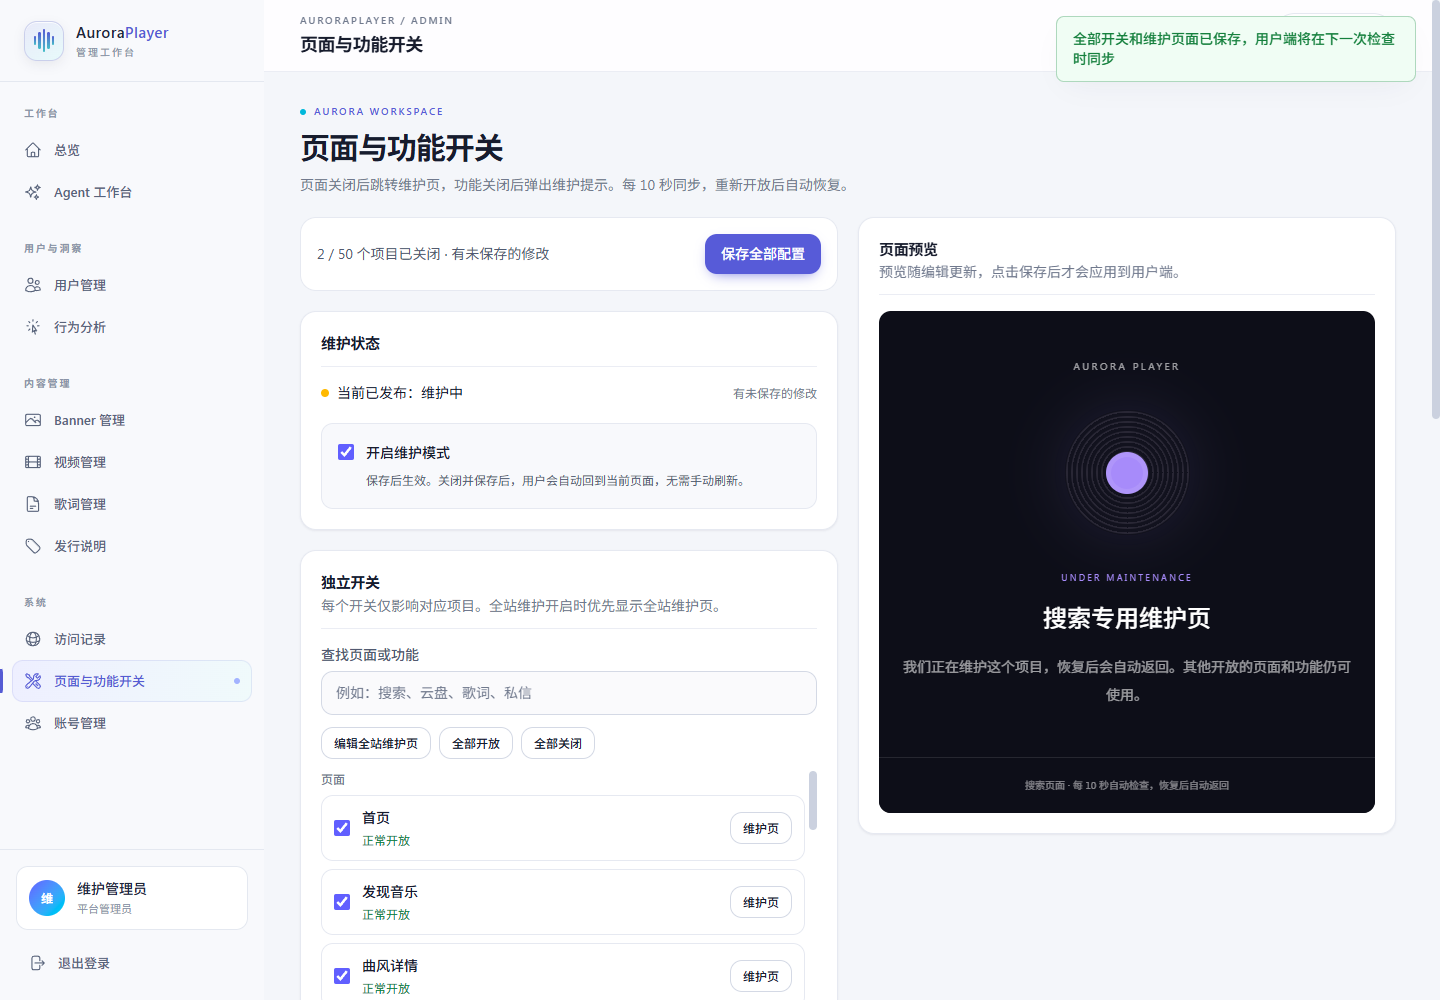
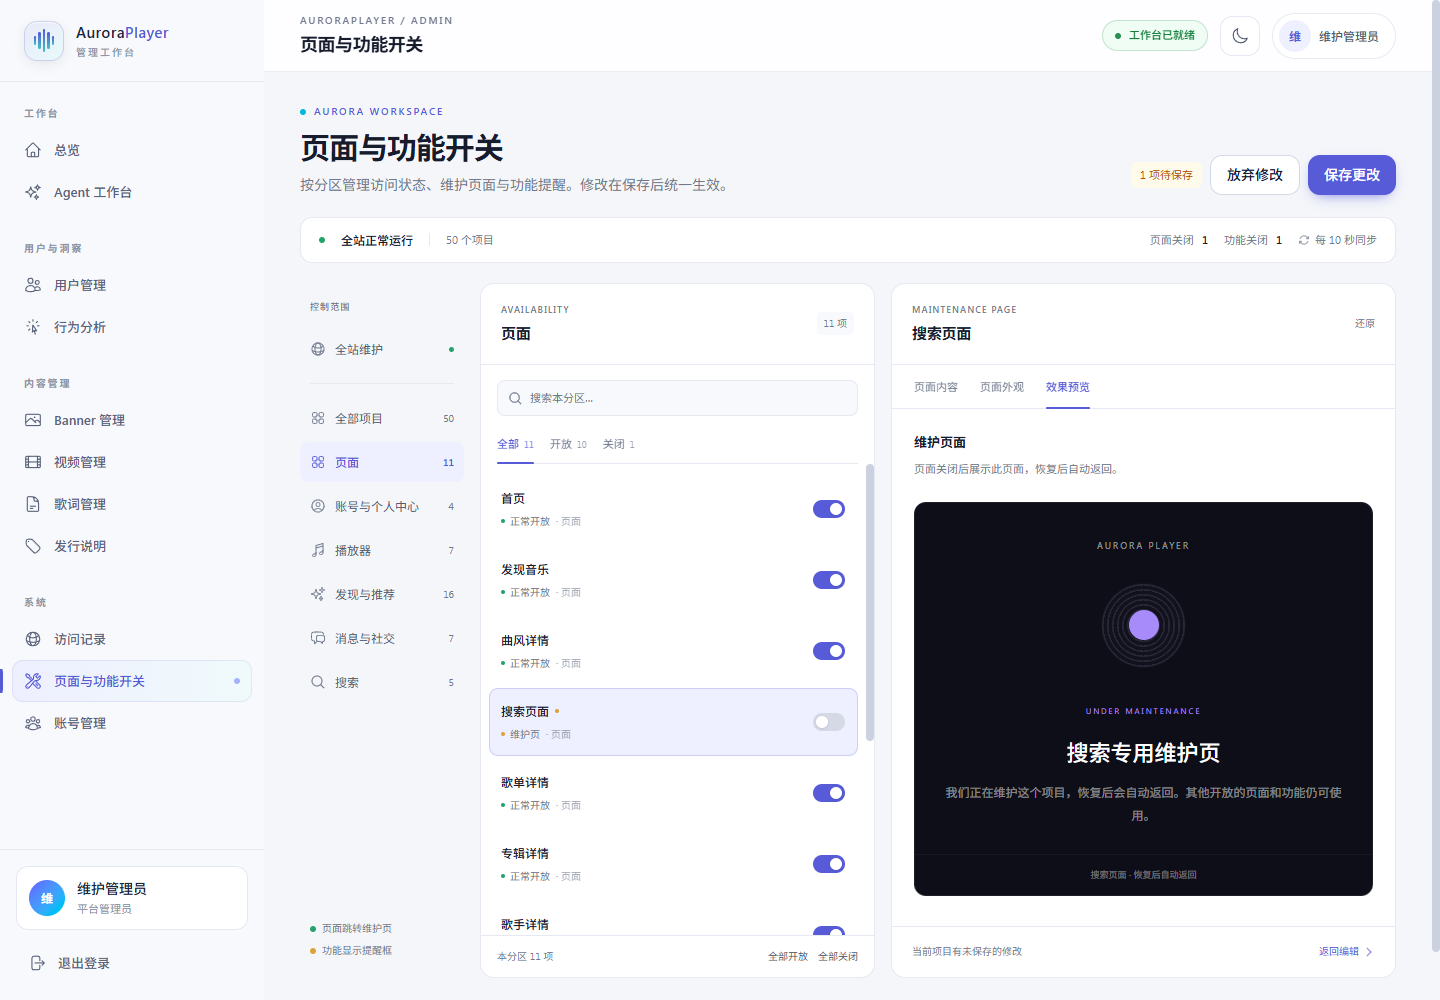
fix(maintenance): show compact central feature alerts

diff --git a/src/components/maintenance/MaintenanceDialog.vue b/src/components/maintenance/MaintenanceDialog.vue
@@ -1,32 +1,39 @@
 <template>
-    <div class="maintenance-dialog-backdrop" @click.self="$emit('close')" @keydown="onKeydown">
-      <section ref="dialogRef" class="maintenance-dialog" role="dialog" aria-modal="true" :aria-label="`${scopeLabel}维护提示`" tabindex="-1">
-        <header class="maintenance-dialog-heading">
-          <span>{{ scopeLabel }} · 维护提示</span>
-          <button class="maintenance-dialog-close" type="button" aria-label="关闭维护提示" @click="$emit('close')">×</button>
-        </header>
-        <MaintenancePage embedded :settings="settings" :scope-label="scopeLabel" :offline="offline"
-          :checking="checking" :recovering="recovering" can-return @check="$emit('check')" @return="$emit('close')" />
-      </section>
-    </div>
+  <div class="maintenance-dialog-backdrop" @click.self="$emit('close')" @keydown="onKeydown">
+    <section ref="dialogRef" class="maintenance-dialog" role="alertdialog" aria-modal="true"
+      :aria-labelledby="`${id}-title`" :aria-describedby="`${id}-message`" tabindex="-1">
+      <button class="maintenance-dialog-close" type="button" aria-label="关闭维护提示" @click="$emit('close')">
+        <svg viewBox="0 0 20 20" aria-hidden="true"><path d="m5 5 10 10M15 5 5 15" /></svg>
+      </button>
+      <div class="maintenance-dialog-icon" aria-hidden="true">
+        <svg viewBox="0 0 24 24"><path d="M10.4 4.1 2.9 17.4a1.8 1.8 0 0 0 1.6 2.7h15a1.8 1.8 0 0 0 1.6-2.7L13.6 4.1a1.8 1.8 0 0 0-3.2 0Z" /><path d="M12 9v4m0 3h.01" /></svg>
+      </div>
+      <h2 :id="`${id}-title`" class="maintenance-dialog-title">{{ settings.title || `${scopeLabel}暂时不可用` }}</h2>
+      <p :id="`${id}-message`" class="maintenance-dialog-message">{{ settings.message || '该功能正在维护，请稍后再试。' }}</p>
+      <p v-if="settings.estimatedReturn" class="maintenance-dialog-estimate">预计恢复：{{ settings.estimatedReturn }}</p>
+      <p v-if="offline" class="maintenance-dialog-status" role="status">暂时无法检查状态，请稍后重试。</p>
+      <div class="maintenance-dialog-actions">
+        <button class="maintenance-dialog-check" type="button" :disabled="checking" @click="$emit('check')">{{ checking ? '检查中…' : '重新检查' }}</button>
+        <button ref="confirmRef" class="maintenance-dialog-confirm" type="button" @click="$emit('close')">知道了</button>
+      </div>
+    </section>
+  </div>
 </template>
 
 <script setup>
-import { nextTick, onBeforeUnmount, onMounted, ref } from 'vue';
-import MaintenancePage from './MaintenancePage.vue';
+import { nextTick, onBeforeUnmount, onMounted, ref, useId } from 'vue';
 import { lockScroll, unlockScroll } from '../../utils/scrollLock.js';
-defineProps({ settings: { type: Object, required: true }, scopeLabel: { type: String, default: '' }, offline: Boolean, checking: Boolean, recovering: Boolean });
+defineProps({ settings: { type: Object, required: true }, scopeLabel: { type: String, default: '' }, offline: Boolean, checking: Boolean });
 const emit = defineEmits(['close', 'check']);
 const dialogRef = ref(null);
-onMounted(() => {
-  lockScroll();
-  void nextTick(() => dialogRef.value?.querySelector('button')?.focus({ preventScroll: true }));
-});
+const confirmRef = ref(null);
+const id = useId();
+onMounted(() => { lockScroll(); void nextTick(() => confirmRef.value?.focus({ preventScroll: true })); });
 onBeforeUnmount(unlockScroll);
 function onKeydown(event) {
   if (event.key === 'Escape') { event.preventDefault(); event.stopPropagation(); emit('close'); return; }
   if (event.key !== 'Tab') return;
-  const elements = [...dialogRef.value.querySelectorAll('button:not(:disabled), iframe, [tabindex="0"]')].filter(el => el.getClientRects().length);
+  const elements = [...dialogRef.value.querySelectorAll('button:not(:disabled)')].filter(el => el.getClientRects().length);
   const first = elements[0], last = elements.at(-1);
   if (event.shiftKey && document.activeElement === first) { event.preventDefault(); last?.focus(); }
   else if (!event.shiftKey && document.activeElement === last) { event.preventDefault(); first?.focus(); }
@@ -34,10 +41,10 @@ function onKeydown(event) {
 </script>
 
 <style scoped>
-.maintenance-dialog-backdrop{position:fixed;inset:0;z-index:10030;display:grid;place-items:center;padding:24px;background:#080a1673;backdrop-filter:blur(9px);box-sizing:border-box}
-.maintenance-dialog{position:relative;width:min(660px,100%);border-radius:22px;outline:none;box-shadow:0 28px 100px #0007;border:1px solid #ffffff20}
-.maintenance-dialog-heading{display:flex;align-items:center;justify-content:space-between;gap:12px;min-height:54px;box-sizing:border-box;padding:10px 14px 10px 22px;border-radius:22px 22px 0 0;background:#0d0e18;border-bottom:1px solid #ffffff12;color:#d9d6e7;font:12px system-ui}
-.maintenance-dialog-close{display:grid;place-items:center;flex-shrink:0;width:34px;height:34px;border:1px solid #ffffff24;border-radius:50%;background:#161722dc;color:white;font:24px/1 system-ui;cursor:pointer}
-.maintenance-dialog-close:focus-visible{outline:2px solid white;outline-offset:3px}
-@media(max-width:600px){.maintenance-dialog-backdrop{padding:16px}}
+.maintenance-dialog-backdrop{position:fixed;inset:0;z-index:10030;display:grid;place-items:center;padding:20px;background:rgba(20,24,36,.28);box-sizing:border-box;font-family:Inter,-apple-system,BlinkMacSystemFont,"Segoe UI","Microsoft YaHei",sans-serif}
+.maintenance-dialog{position:relative;width:min(420px,100%);max-height:calc(100dvh - 40px);overflow:auto;box-sizing:border-box;padding:28px;border:1px solid rgba(24,30,45,.08);border-radius:18px;background:#fff;color:#202430;outline:none;box-shadow:0 20px 80px #131b332b,0 4px 16px #131b330c}
+.maintenance-dialog-close{position:absolute;right:14px;top:14px;display:grid;place-items:center;width:28px;height:28px;padding:6px;border:0;border-radius:7px;background:transparent;color:#8d929e;cursor:pointer}.maintenance-dialog-close:hover{background:#f3f4f7;color:#3b4050}.maintenance-dialog-close svg{width:16px;height:16px;fill:none;stroke:currentColor;stroke-width:1.6;stroke-linecap:round}
+.maintenance-dialog-icon{display:grid;place-items:center;width:42px;height:42px;border:1px solid #f5e6bf;border-radius:12px;background:#fff8e9;color:#c78d19}.maintenance-dialog-icon svg{width:24px;height:24px;fill:none;stroke:currentColor;stroke-width:1.65;stroke-linecap:round;stroke-linejoin:round}
+.maintenance-dialog-title{margin:18px 0 9px;padding-right:12px;font-size:18px;line-height:1.5;font-weight:650;letter-spacing:-.02em;overflow-wrap:anywhere}.maintenance-dialog-message{margin:0;color:#777d8b;font-size:13px;line-height:1.85;white-space:pre-wrap;overflow-wrap:anywhere;max-height:200px;overflow:auto}.maintenance-dialog-estimate,.maintenance-dialog-status{margin:12px 0 0;font-size:12px;line-height:1.6;color:#9b7b3c}.maintenance-dialog-actions{display:flex;justify-content:flex-end;gap:9px;margin-top:26px}.maintenance-dialog-actions button{height:35px;border-radius:8px;padding:0 16px;font:500 12px/1 system-ui;cursor:pointer;transition:background .15s}.maintenance-dialog-check{border:1px solid #e5e7ed;background:white;color:#6f7583}.maintenance-dialog-check:hover{background:#f7f8fa}.maintenance-dialog-check:disabled{opacity:.5;cursor:wait}.maintenance-dialog-confirm{border:1px solid #252936;background:#252936;color:white}.maintenance-dialog-confirm:hover{background:#3d4253}.maintenance-dialog button:focus-visible{outline:2px solid #8b91d9;outline-offset:3px}
+@media(max-width:480px){.maintenance-dialog{padding:24px}.maintenance-dialog-title{font-size:17px}}
 </style>

diff --git a/src/components/maintenance/MaintenancePage.vue b/src/components/maintenance/MaintenancePage.vue
@@ -1,5 +1,5 @@
 <template>
-  <section class="maintenance-page" :class="{ 'maintenance-embedded': embedded }" :style="pageStyle" :aria-label="scopeLabel ? `${scopeLabel}维护中` : '网站维护'">
+  <section class="maintenance-page" :style="pageStyle" :aria-label="scopeLabel ? `${scopeLabel}维护中` : '网站维护'">
     <iframe v-if="settings.customHtml.trim()" class="maintenance-custom" :srcdoc="settings.customHtml"
       sandbox="" referrerpolicy="no-referrer" title="自定义维护页面" />
     <div v-else class="maintenance-content">
@@ -16,7 +16,7 @@
       <span class="maintenance-indicator" :class="{ offline }" />
       <span>{{ recovering ? '维护已结束，正在返回…' : offline ? '暂时无法连接，正在自动重试…' : '每 10 秒自动检查，恢复后自动返回' }}</span>
       <button v-if="!recovering" type="button" :disabled="checking" @click="$emit('check')">{{ checking ? '检查中…' : '立即检查' }} <span aria-hidden="true">↗</span></button>
-      <button v-if="canReturn && !recovering" type="button" @click="$emit('return')">{{ embedded ? '我知道了' : '返回可用页面' }}</button>
+      <button v-if="canReturn && !recovering" type="button" @click="$emit('return')">返回可用页面</button>
     </footer>
   </section>
 </template>
@@ -24,7 +24,7 @@
 <script setup>
 import { computed, onMounted, ref } from 'vue';
 const props = defineProps({ settings: { type: Object, required: true }, offline: Boolean, checking: Boolean, recovering: Boolean,
-  scopeLabel: { type: String, default: '' }, canReturn: Boolean, embedded: Boolean });
+  scopeLabel: { type: String, default: '' }, canReturn: Boolean });
 defineEmits(['check', 'return']);
 const titleRef = ref(null);
 const pageStyle = computed(() => ({ '--maintenance-accent': props.settings.accentColor,
@@ -44,8 +44,6 @@ onMounted(() => { titleRef.value?.focus({ preventScroll: true }); });
 .maintenance-wave{height:35px;display:flex;gap:5px;align-items:center;justify-content:center;margin:30px 0}.maintenance-wave i{width:3px;height:calc(5px + mod(var(--n) * 7, 23) * 1px);border-radius:4px;background:var(--maintenance-accent);opacity:.45;animation:maintenance-wave 2s ease-in-out infinite;animation-delay:calc(var(--n) * -.12s)}
 .maintenance-status{display:flex;align-items:center;justify-content:center;gap:10px;flex-wrap:wrap;padding:20px 22px 28px;font-size:11px;color:#aaa7bb;position:relative;background:#0d0e18;border-top:1px solid #ffffff0a}.maintenance-indicator{width:6px;height:6px;border-radius:50%;background:var(--maintenance-accent)}.maintenance-indicator.offline{background:#e4b46c}.maintenance-status button{border:1px solid #ffffff24;border-radius:100px;background:#ffffff06;color:#e9e6f5;padding:8px 14px;font:inherit;cursor:pointer;margin-left:12px}.maintenance-status button:disabled{opacity:.5;cursor:wait}.maintenance-status button:focus-visible{outline:2px solid var(--maintenance-accent);outline-offset:3px}
 .maintenance-custom{width:100%;flex:1;min-height:240px;border:0;background:#fff}.maintenance-custom + .maintenance-status{flex-shrink:0}
-.maintenance-embedded{position:relative;inset:auto;z-index:auto;max-height:min(calc(80dvh - 54px),706px);min-height:min(320px,calc(80dvh - 54px));border-radius:0 0 22px 22px;overscroll-behavior:contain}
-.maintenance-embedded .maintenance-content{padding:34px 28px 8px}.maintenance-embedded .maintenance-brand span{display:none}.maintenance-embedded .maintenance-record{width:88px;height:88px;margin:28px auto}.maintenance-embedded .maintenance-record div{width:34px;height:34px}.maintenance-embedded h1{font-size:28px}.maintenance-embedded .maintenance-message{font-size:13px;margin-top:16px}.maintenance-embedded .maintenance-wave{margin:16px 0}.maintenance-embedded .maintenance-status{padding:16px;flex-shrink:0}.maintenance-embedded .maintenance-custom{height:min(55dvh,480px);flex:0 0 auto}
 @keyframes maintenance-spin{to{transform:rotate(360deg)}}@keyframes maintenance-wave{50%{transform:scaleY(.4);opacity:.25}}
 @media(max-width:600px){.maintenance-brand span{display:block;margin:12px 0 0;font-size:10px}.maintenance-record{margin-top:36px;width:130px;height:130px}.maintenance-status{font-size:10px}.maintenance-status button{margin-left:0}.maintenance-content{padding-top:28px}}
 @media(prefers-reduced-motion:reduce){.maintenance-record,.maintenance-wave i{animation:none}}

diff --git a/src/utils/maintenanceAccess.js b/src/utils/maintenanceAccess.js
@@ -18,6 +18,9 @@ export const isRouteAvailable = (settings, name) => isTargetAvailable(settings, 
 
 export function targetMaintenancePage(settings, key) {
   const target = settings.targets?.[key];
+  if (key.startsWith('feature.') && (!target || target.useGlobalPage !== false)) {
+    return { ...DEFAULT_MAINTENANCE, title: `${targetLabel(key)}暂时不可用`, message: '该功能正在维护，请稍后再试。' };
+  }
   if (!target || target.useGlobalPage !== false) return settings;
   return { ...DEFAULT_MAINTENANCE, ...target, targets: {}, enabled: true };
 }

diff --git a/docs/maintenance-mode.md b/docs/maintenance-mode.md
@@ -4,8 +4,8 @@
 
 1. 使用管理员账号登录管理后台，进入「系统 → 页面与功能开关」。
 2. 全站维护使用原有总开关；独立维护在列表中关闭相应项目的「开放」开关。
-3. 页面项目点击「维护页」，功能项目点击「维护弹窗」，可沿用全站内容，也可以取消「使用全站维护页面」后独立编辑文案、配色、背景图片和 HTML。右侧实时预览。
-4. 点击「保存全部配置」发布。用户端在下一次检查时同步，不需要每个模块分别请求接口。
+3. 左栏选择分区，中栏选择项目或切换开放状态，右栏编辑当前项目。页面分为内容、外观、预览；功能仅配置文字提醒和预览。
+4. 点击顶部「保存更改」发布。切换分区会保留草稿；「放弃修改」还原全部草稿，右栏「还原」只还原当前项目。用户端在下一次检查时同步。
 5. 页面关闭后跳转 `/maintenance?from=原地址`；恢复后自动跳回原地址，保留查询参数。功能关闭后在当前页弹出维护窗口，页面和地址均保持不变。
 
 目前有 50 个独立开关：
@@ -22,17 +22,21 @@
 全站维护优先于独立项目维护。多个项目同时关闭时，优先显示当前页面的维护内容，再显示当前操作或已打开功能的维护内容。
 独立页面维护提供「返回可用页面」。功能维护弹窗可通过右上角关闭、Esc、点击遮罩或「我知道了」退出；关闭提示不会开放该功能，轮询不会重复打断用户，再次操作时仍会提示。全站维护时仍使用完整维护页。
 
+后台支持本分区搜索、开放 / 关闭状态筛选。底部批量按钮只影响当前分区或当前筛选结果，不会改动其他分区。顶部区分已发布的全站状态和待保存修改，保存失败会保留草稿供重试。
+
 维护开关默认关闭。预计恢复时间只展示文案，不会按该时间自动关闭维护；应在实际恢复后关闭并保存。
 只有 `ROLE_ADMIN` 可以读取和修改管理设置。维护期间管理后台仍然可用。
 错误页与管理后台不纳入用户端开关，避免关闭后无法恢复系统。
 
-## 自定义页面
+## 页面与提醒内容
 
 不填自定义 HTML 时，使用默认唱片主题页面。支持自定义标题、说明、预计恢复时间、六位十六进制主题色和 HTTP(S) 背景图片地址。
 
 填写自定义 HTML 后，该内容取代默认维护页面主体。支持 HTML、CSS 和图片，最大 100,000 个字符。
 内容在 `sandbox=""` 的 iframe 中展示，不能运行脚本、提交表单或操作父页面。
 底部的自动检查提示和「立即检查」按钮始终保留。后台预览不会发布修改，必须保存才生效。
+
+功能关闭时使用屏幕中央的简洁提醒框，仅显示警告图标、标题、说明、恢复时间和操作按钮。功能提醒不渲染维护页、HTML、图片背景或唱片动画；旧配置中的这些页面字段会保留，但不会显示在提醒框内。「使用默认提醒」会使用功能名称和通用维护说明，也可取消后单独编辑文案。
 
 ## 检测与恢复
 
